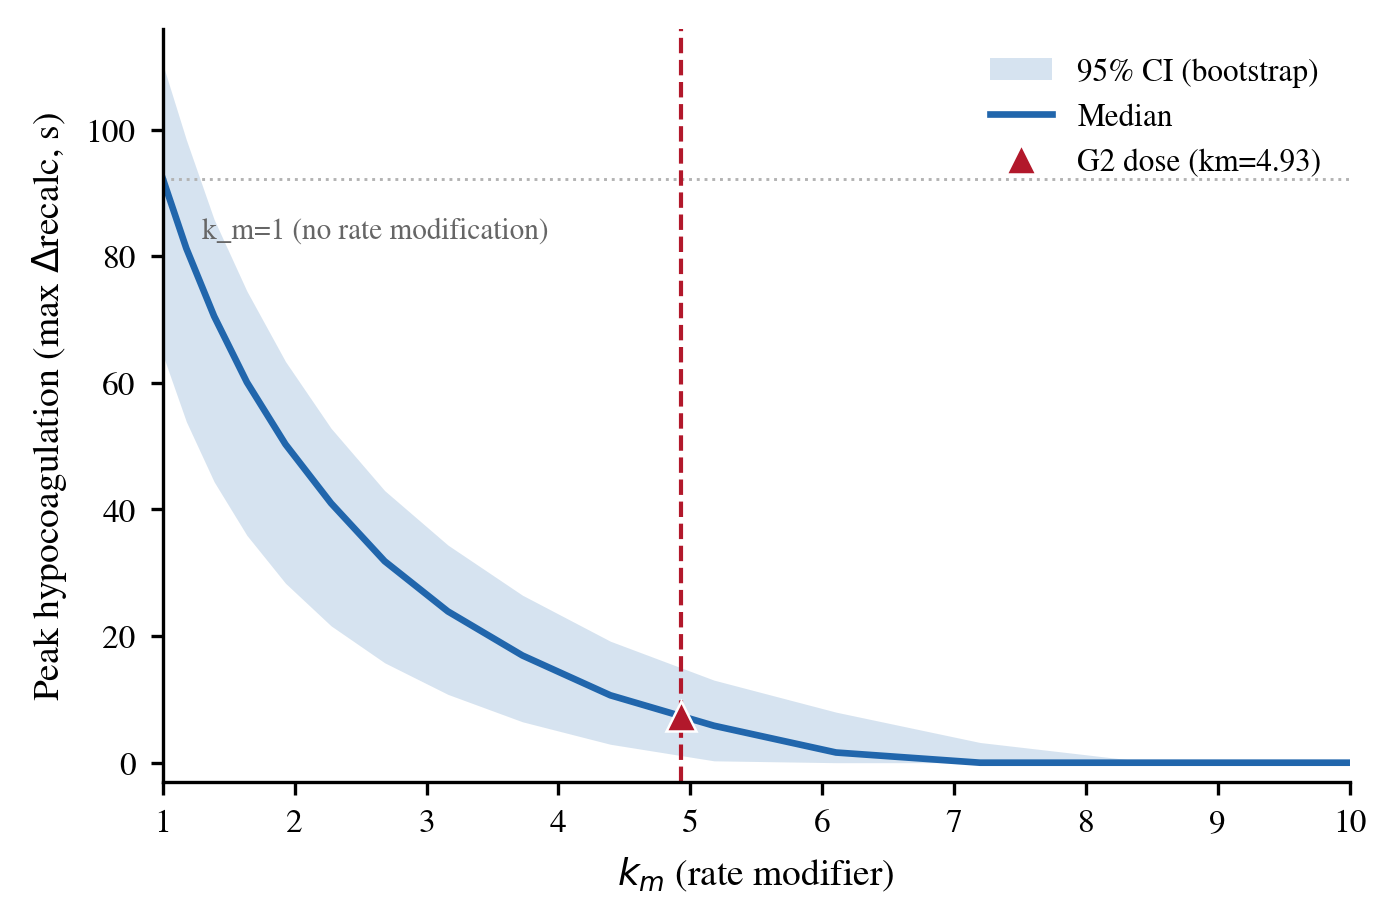
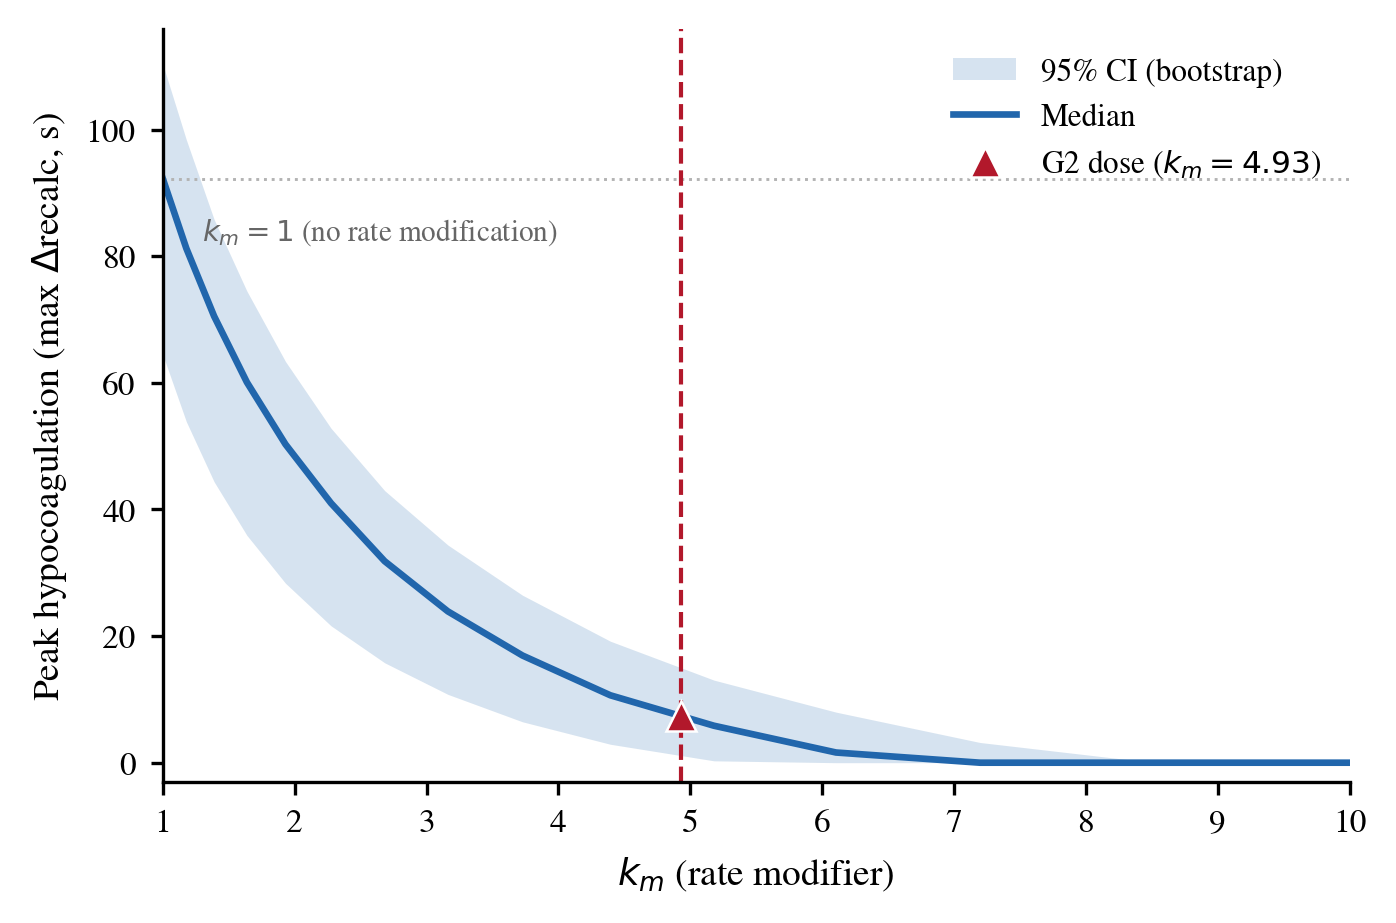
figures + S1.7: LaTeX-italicise k_m/t_m in Fig 4/5 labels; clarify normalisation
Cosmetic consistency pass (pre-bioRxiv): the on-figure k_m/t_m references in the
Fig 4 legend and the Fig 5 annotation/legend were plain text ("k_m=t_m=1",
"k_m=1", "km=4.93") while the axes already render them as italic math ($k_m$,
$t_m$). Wrapping the labels in $...$ makes the symbols match the axes throughout.

- make_fig4.py: legend "No kinetic modification (k_m=t_m=1)" ->
  "($k_m = t_m = 1$)".
- make_fig5.py: annotation "k_m=1 (no rate modification)" ->
  "$k_m = 1$ (no rate modification)"; legend "G2 dose (km=4.93)" ->
  "G2 dose ($k_m = 4.93$)".
- Regenerated fig4_phase_diagram + fig5_dose_response_slice (PNG+PDF): only the
  label glyphs changed to italic math; surfaces, curve, CI band, contours, and
  markers are pixel-identical. Verified visually.

Also (substantive, one sentence) — S1_ode_formulation.md §S1.7, N1_BASE table
row: added a clarification that the same fixed scale (N1_BASE = 7.3) normalises
both cohorts, so the suppressed Group II profile (post-busulfan baseline ~3.9)
enters as a reduced N_r rather than rescaled to unity, preserving the absolute
count difference used in the §S6.5 2x2 decomposition. Verified against the code:
model.py computes Nr = Nf(t) / cfg.N1_BASE for both groups (a single N1_BASE,
config.py), so Group II is not renormalised to its own intact level — the claim
is exact and explains why the 2x2 count route is meaningful.

No model code, data, or computed value changed; 31/31 non-slow tests pass.

Changed region(s): [[0.6777, 0.0607, 0.9549, 0.2124], [0.154, 0.2427, 0.4004, 0.273]]

diff --git a/analyses/30_myelosan_dose/make_fig5.py b/analyses/30_myelosan_dose/make_fig5.py
@@ -48,7 +48,7 @@ def main():
 
     # no-myelosan level (km=1) reference
     ax.axhline(med[0], color="0.7", lw=0.7, ls=":", zorder=1)
-    ax.annotate("k_m=1 (no rate modification)", xy=(km[0], med[0]), xytext=(km[0] + 0.3, med[0] - 6),
+    ax.annotate("$k_m = 1$ (no rate modification)", xy=(km[0], med[0]), xytext=(km[0] + 0.3, med[0] - 6),
                 fontsize=7, color="0.4", va="top")
 
     # observed G2 operating point (km=4.93)
@@ -56,7 +56,7 @@ def main():
     # interpolate median severity at the observed km for the marker
     sev_at_g2 = float(np.interp(KM_BASELINE_G2, km, med))
     ax.plot([KM_BASELINE_G2], [sev_at_g2], "^", color=C_G2, ms=7, mfc=C_G2,
-            mec="white", mew=0.6, zorder=4, label=f"G2 dose (km={KM_BASELINE_G2})")
+            mec="white", mew=0.6, zorder=4, label=f"G2 dose ($k_m = {KM_BASELINE_G2}$)")
 
     ax.set_xlabel(r"$k_m$ (rate modifier)")
     ax.set_ylabel(r"Peak hypocoagulation (max $\Delta$recalc, s)")

diff --git a/analyses/30_myelosan_dose/make_fig4.py b/analyses/30_myelosan_dose/make_fig4.py
@@ -73,7 +73,7 @@ def main():
 
         # reference points (neutral: white-edged)
         ax.plot(1.0, 1.0, marker="o", color="white", ms=7, mec="black",
-                mew=1.0, zorder=5, label="No kinetic modification (k_m=t_m=1)")
+                mew=1.0, zorder=5, label="No kinetic modification ($k_m = t_m = 1$)")
         ax.plot(TM_BASELINE_G2, KM_BASELINE_G2, marker="*", color="white",
                 ms=12, mec="black", mew=1.0, zorder=5,
                 label="G2 observed")

diff --git a/supplementary/S1_ode_formulation.md b/supplementary/S1_ode_formulation.md
@@ -172,7 +172,7 @@ The following constants are specified outside of optimisation. Their values are 
 |---|---|---|---|
 | $\tau_v$ (TV\_FIX) | 1.5 | days | Time scale of the inducer toxicity impulse; biologically motivated by the peak acute systemic effect of ethylphenacin in rabbits at ~36 h after administration. |
 | $k_{cd}$ (KCD\_FIX) | 0.2 | day$^{-1}$ | Clearance rate of the inducer-derived coagulation pool ($H_c$); held fixed at a diagnostic-phase value, an open candidate for future refitting with a prior. |
-| $N_{1,\text{BASE}}$ | 7.3 | $10^9$/L | Baseline neutrophil count for normalisation $N_r(t) = N(t) / N_{1,\text{BASE}}$; corresponds to the intact Group I baseline. |
+| $N_{1,\text{BASE}}$ | 7.3 | $10^9$/L | Baseline neutrophil count for normalisation $N_r(t) = N(t) / N_{1,\text{BASE}}$; corresponds to the intact Group I baseline. The same fixed scale normalises both cohorts, so the suppressed Group II profile (baseline $\approx 3.9$) enters as a reduced $N_r$ rather than rescaled to unity, preserving the absolute count difference used in the §S6.5 decomposition. |
 
 These three constants and the 26 optimised parameters of Table S2 constitute the complete model parametrisation.
 